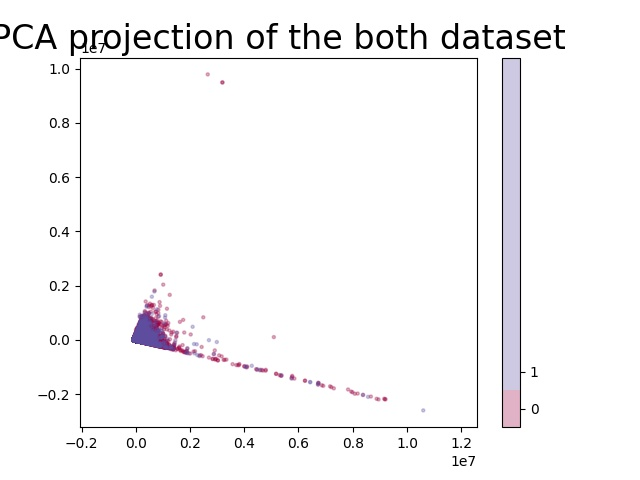
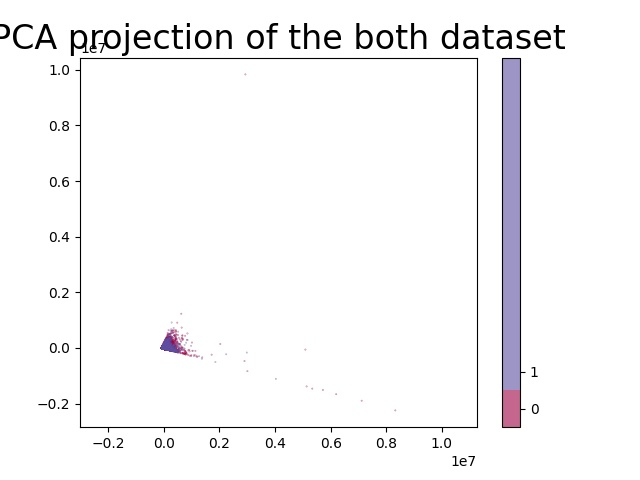
Feature separation

diff --git a/predictor.py b/predictor.py
@@ -34,13 +34,14 @@ def main():
     # x_train,x_test,y_train,y_test = preprocessDataTree(raw)
     # model = trainModel(x_train,y_train)
     print("Constructing Model")
-    model = makeTreeModel(x_train.values,y_train)
+    models = makeModel(x_train.join(y_train))
+    # model = makeTreeModel(x_train.values,y_train)
     print("Model Predict:")
-
-    predictions = predict(model,x_test)
-    score = score_model(predictions,y_test)
-    print("\n\nScore =",score,"\n\n")
-    final_preds(model)
+    # predictions = predict(models,x_test)
+    # score = score_model(predictions,y_test)
+    predict_models(models,x_test,y_test)
+    # print("\n\nScore =",score,"\n\n")
+    # final_preds(models)
     print("Done")
 
 
@@ -69,17 +70,22 @@ def preprocessData(raw):
 
     return (xTrain,xTest,yTrain,yTest)
 
+def makeModel(data):
+    race_models = {}
+    for race in data['race'].unique():
+        print("Making model for race=",race)
+        x = data.loc[data['race']==race]
+        y = x["loan_paid"]
+        race_models[race] = makeTreeModel(x,y)
 
+    return race_models
 def makeTreeModel(x,y):
+    x = x.values()
     y = np.array(y.values.tolist()).reshape(len(y),)
     print(x.shape,y.shape)
-    model = GradientBoostingClassifier(n_estimators=1000,learning_rate=.001,max_depth=1,verbose=True)
-    # cv = RepeatedStratifiedKFold(n_splits=10, n_repeats=3, random_state=1)
-    # n_scores = cross_val_score(model, x, y, scoring='accuracy', cv=cv, n_jobs=-1)
-    # print('Mean Accuracy: %.3f (%.3f)' % (np.mean(n_scores), np.std(n_scores)))
+    model = GradientBoostingClassifier(n_estimators=100,learning_rate=.01,max_depth=1,verbose=False)
     model.fit(x,y)
     return model
-
 
 # def makeTFModel(x_train,y_train):
 #     model = tf.keras.models.Sequential([
@@ -104,8 +110,24 @@ def makeTreeModel(x,y):
 
 def predict(model,xVals):
     preds = model.predict(xVals)
-    print(preds)
     return np.where(preds > .5, 1,0)
+
+def predict_models(models,xvals,yvals):
+    predictions = []
+    races = models.keys()
+    for key in races:
+        model = models[key]
+        p = model.predict(np.where(xvals['race']==key))
+        predictions.append(p)
+
+    total_data = xvals.join(yvals)
+    correct = 0
+    total = 0
+    for i in range(len(races)):
+        y_preds = predictions[i].reshape(len(y_preds),)
+        y_actual = np.where(xvals['race']==races[i])
+        print("yactual ", y_actual)
+    return predictions
 
 def score_model(y_preds,y_actual):
     if (len(y_preds)!= len(y_actual)): return -1

diff --git a/plotter.py b/plotter.py
@@ -62,12 +62,11 @@ def cluster():
     plot_pca(all_data,"both",key)
     
     print("UMAP Clustering")
-    reducer = umap.UMAP()
-    reducer.fit(all_data)
-    embedding = reducer.transform(all_data)
-    assert(np.all(embedding == reducer.embedding_))
+    reducer = umap.UMAP(n_neighbors=30,min_dist=0.0,n_components=2,random_state=42)
+    embedding = reducer.fit_transform(all_data)
     print(f'Dimensionality of the embedding: {embedding.shape}')
     plot_embedding(embedding,key,"both","UMAP")
+    print("Done")
     return
 
 def plot_pca(df,data_type,key):
@@ -79,7 +78,7 @@ def plot_pca(df,data_type,key):
     plot_embedding(embedding,key,data_type,"PCA")
     
 def plot_embedding(embedding,key,data_type,embedding_type):
-    plt.scatter(embedding[:, 0], embedding[:, 1], c=key, cmap='Spectral', s=5,alpha=.3)
+    plt.scatter(embedding[:, 0], embedding[:, 1], c=key, cmap='Spectral', s=.1,alpha=.6)
     plt.colorbar(boundaries=np.arange(11)-0.5).set_ticks(np.arange(2))
     plt.gca().set_aspect('equal', 'datalim')
     plt.title(f'{embedding_type} projection of the {data_type} dataset', fontsize=24)
@@ -96,7 +95,8 @@ def preprocess(raw):
     data['requ_to_income'] = (data['requested_amnt']+1)/(data['annual_income']+1)
     
     data = data.fillna(0)
-    return data
+    data = data.sample(frac=.1)
+    return data 
 
 def trim_data(raw):
     columns = [
